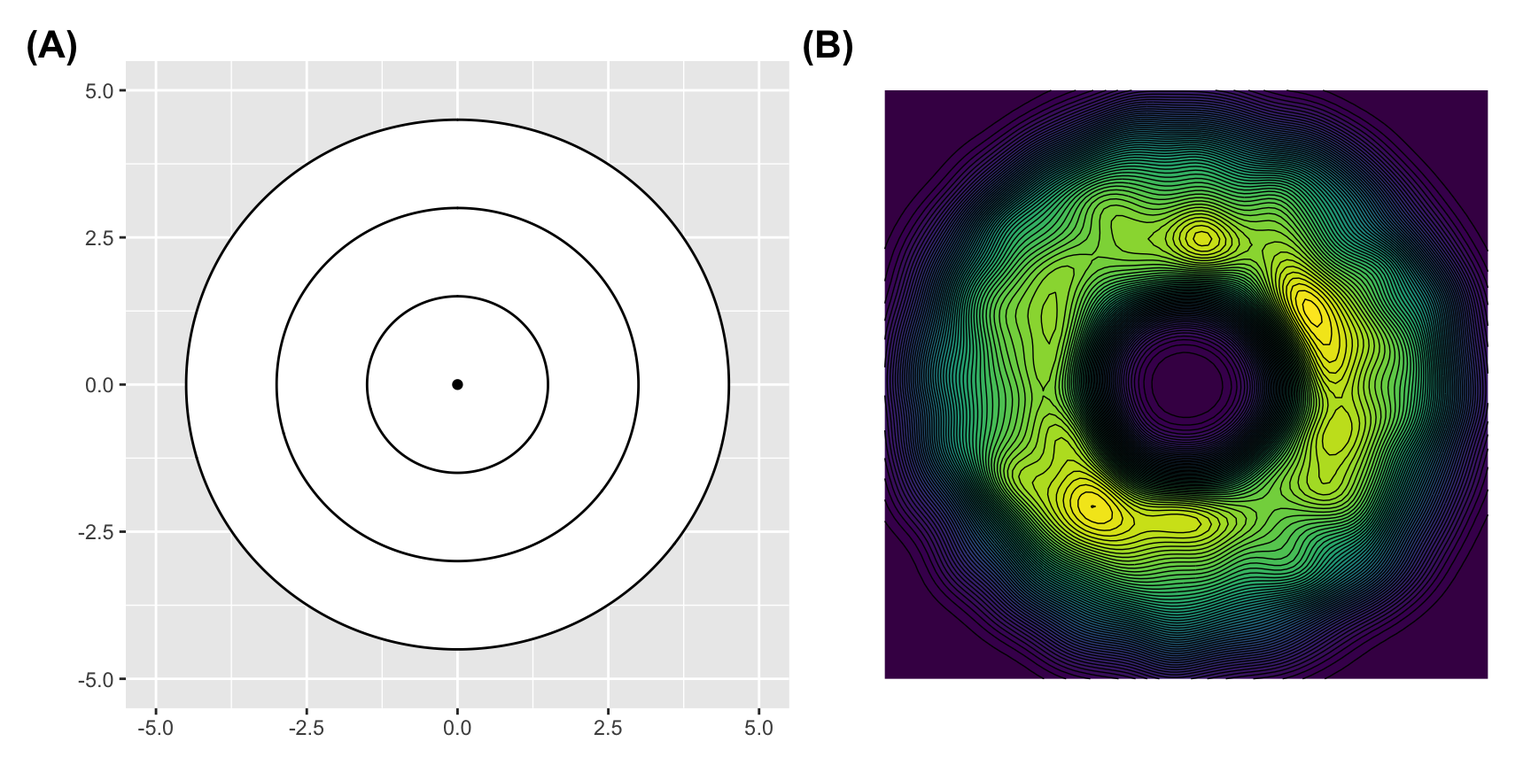
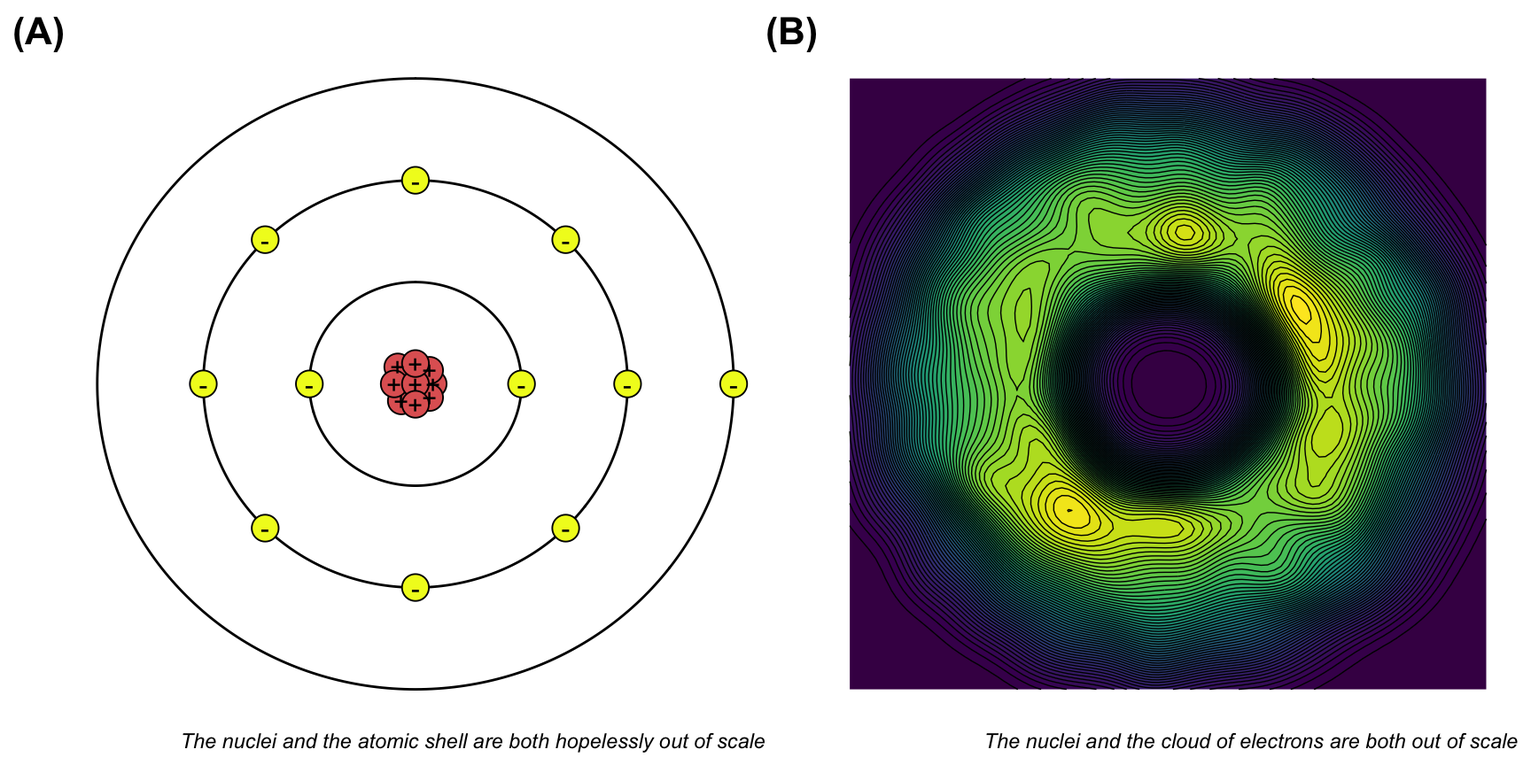
added

diff --git a/docs/chapter-03-what-is-a-model.html b/docs/chapter-03-what-is-a-model.html
@@ -445,7 +445,7 @@ window.Quarto = {
 </header>
 
 
-<p><em>Last modified on 14. January 2026 at 19:38:38</em></p>
+<p><em>Last modified on 14. January 2026 at 20:33:41</em></p>
 <blockquote class="blockquote">
 <p><em>“Space: the final frontier. These are the voyages of the starship Enterprise. Its continuing mission: to explore strange new worlds; to seek out new life and new civilizations; to boldly go where no one has gone before!” — Star Trek: The Next Generation, intro</em></p>
 </blockquote>
@@ -1304,118 +1304,132 @@ Figure&nbsp;3.7: Dramatis personae in this chapter and their biographical detail
 <span id="cb1-154"><a href="#cb1-154" aria-hidden="true" tabindex="-1"></a><span class="co">#| fig-cap: "foo **(A)** foo **(B)** foo"</span></span>
 <span id="cb1-155"><a href="#cb1-155" aria-hidden="true" tabindex="-1"></a></span>
 <span id="cb1-156"><a href="#cb1-156" aria-hidden="true" tabindex="-1"></a>p_atom_bohr <span class="ot">&lt;-</span> <span class="fu">ggplot</span>() <span class="sc">+</span></span>
-<span id="cb1-157"><a href="#cb1-157" aria-hidden="true" tabindex="-1"></a>  <span class="fu">coord_cartesian</span>(<span class="at">xlim =</span> <span class="fu">c</span>(<span class="sc">-</span><span class="dv">5</span>, <span class="dv">5</span>), <span class="at">ylim =</span> <span class="fu">c</span>(<span class="sc">-</span><span class="dv">5</span>, <span class="dv">5</span>)) <span class="sc">+</span></span>
-<span id="cb1-158"><a href="#cb1-158" aria-hidden="true" tabindex="-1"></a>  <span class="fu">geom_circle</span>(<span class="fu">aes</span>(<span class="at">x0 =</span> <span class="dv">0</span>, <span class="at">y0 =</span> <span class="dv">0</span>, <span class="at">r =</span> <span class="fu">c</span>(<span class="fl">4.5</span>, <span class="dv">3</span>, <span class="fl">1.5</span>)), <span class="at">fill =</span> <span class="st">"white"</span>) <span class="sc">+</span></span>
-<span id="cb1-159"><a href="#cb1-159" aria-hidden="true" tabindex="-1"></a>  <span class="fu">annotate</span>(<span class="st">"point"</span>, <span class="at">x =</span> <span class="dv">0</span>, <span class="at">y =</span> <span class="dv">0</span>) </span>
-<span id="cb1-160"><a href="#cb1-160" aria-hidden="true" tabindex="-1"></a></span>
-<span id="cb1-161"><a href="#cb1-161" aria-hidden="true" tabindex="-1"></a>N <span class="ot">&lt;-</span> <span class="dv">10000</span></span>
-<span id="cb1-162"><a href="#cb1-162" aria-hidden="true" tabindex="-1"></a>hole <span class="ot">&lt;-</span> <span class="fl">0.25</span></span>
-<span id="cb1-163"><a href="#cb1-163" aria-hidden="true" tabindex="-1"></a>atom_tbl <span class="ot">&lt;-</span> <span class="fu">tibble</span>(<span class="at">r =</span> hole <span class="sc">+</span> (<span class="fl">1.0</span><span class="sc">-</span>hole)<span class="sc">*</span><span class="fu">rbeta</span>(N, <span class="fl">2.0</span>, <span class="fl">2.0</span>),</span>
-<span id="cb1-164"><a href="#cb1-164" aria-hidden="true" tabindex="-1"></a>                   <span class="at">theta =</span> <span class="fl">2.0</span><span class="sc">*</span>pi<span class="sc">*</span><span class="fu">runif</span>(N),</span>
-<span id="cb1-165"><a href="#cb1-165" aria-hidden="true" tabindex="-1"></a>                   <span class="at">a =</span> r <span class="sc">*</span> <span class="fu">cos</span>(theta),</span>
-<span id="cb1-166"><a href="#cb1-166" aria-hidden="true" tabindex="-1"></a>                   <span class="at">b =</span> r <span class="sc">*</span> <span class="fu">sin</span>(theta))</span>
-<span id="cb1-167"><a href="#cb1-167" aria-hidden="true" tabindex="-1"></a></span>
-<span id="cb1-168"><a href="#cb1-168" aria-hidden="true" tabindex="-1"></a>p_atom_dens <span class="ot">&lt;-</span> <span class="fu">ggplot</span>(atom_tbl, <span class="fu">aes</span>(a, b)) <span class="sc">+</span></span>
-<span id="cb1-169"><a href="#cb1-169" aria-hidden="true" tabindex="-1"></a>  <span class="fu">theme_void</span>() <span class="sc">+</span></span>
-<span id="cb1-170"><a href="#cb1-170" aria-hidden="true" tabindex="-1"></a>  <span class="fu">geom_density_2d_filled</span>(<span class="at">show.legend =</span> <span class="cn">FALSE</span>, <span class="at">binwidth =</span> <span class="fl">0.01</span>) <span class="sc">+</span></span>
-<span id="cb1-171"><a href="#cb1-171" aria-hidden="true" tabindex="-1"></a>  <span class="fu">geom_density_2d</span>(<span class="at">linewidth =</span> <span class="fl">0.25</span>, <span class="at">colour =</span> <span class="st">"black"</span>, <span class="at">show.legend =</span> <span class="cn">FALSE</span>, </span>
-<span id="cb1-172"><a href="#cb1-172" aria-hidden="true" tabindex="-1"></a>                  <span class="at">binwidth =</span> <span class="fl">0.01</span>)</span>
-<span id="cb1-173"><a href="#cb1-173" aria-hidden="true" tabindex="-1"></a></span>
-<span id="cb1-174"><a href="#cb1-174" aria-hidden="true" tabindex="-1"></a>p_atom_bohr <span class="sc">+</span> p_atom_dens <span class="sc">+</span></span>
-<span id="cb1-175"><a href="#cb1-175" aria-hidden="true" tabindex="-1"></a>  <span class="fu">plot_layout</span>(<span class="at">ncol =</span> <span class="dv">2</span>) <span class="sc">+</span></span>
-<span id="cb1-176"><a href="#cb1-176" aria-hidden="true" tabindex="-1"></a>  <span class="fu">plot_annotation</span>(<span class="at">tag_levels =</span> <span class="st">'A'</span>, <span class="at">tag_prefix =</span> <span class="st">'('</span>, <span class="at">tag_suffix =</span> <span class="st">')'</span>) <span class="sc">&amp;</span></span>
-<span id="cb1-177"><a href="#cb1-177" aria-hidden="true" tabindex="-1"></a>  <span class="fu">theme</span>(<span class="at">plot.tag =</span> <span class="fu">element_text</span>(<span class="at">size =</span> <span class="dv">16</span>, <span class="at">face =</span> <span class="st">"bold"</span>))</span>
-<span id="cb1-178"><a href="#cb1-178" aria-hidden="true" tabindex="-1"></a><span class="in">```</span></span>
+<span id="cb1-157"><a href="#cb1-157" aria-hidden="true" tabindex="-1"></a>  <span class="fu">theme_void</span>() <span class="sc">+</span></span>
+<span id="cb1-158"><a href="#cb1-158" aria-hidden="true" tabindex="-1"></a>  <span class="fu">coord_cartesian</span>(<span class="at">xlim =</span> <span class="fu">c</span>(<span class="sc">-</span><span class="fl">4.5</span>, <span class="fl">4.5</span>), <span class="at">ylim =</span> <span class="fu">c</span>(<span class="sc">-</span><span class="fl">4.5</span>, <span class="fl">4.5</span>)) <span class="sc">+</span></span>
+<span id="cb1-159"><a href="#cb1-159" aria-hidden="true" tabindex="-1"></a>  <span class="fu">geom_circle</span>(<span class="fu">aes</span>(<span class="at">x0 =</span> <span class="dv">0</span>, <span class="at">y0 =</span> <span class="dv">0</span>, <span class="at">r =</span> <span class="fu">c</span>(<span class="fl">4.5</span>, <span class="dv">3</span>, <span class="fl">1.5</span>))) <span class="sc">+</span></span>
+<span id="cb1-160"><a href="#cb1-160" aria-hidden="true" tabindex="-1"></a>  <span class="fu">annotate</span>(<span class="st">"point"</span>, <span class="at">x =</span> <span class="fu">c</span>(<span class="fl">0.25</span>, <span class="sc">-</span><span class="fl">0.25</span>, <span class="sc">-</span><span class="fl">0.2</span>, <span class="fl">0.2</span>, <span class="fl">0.2</span>, <span class="sc">-</span><span class="fl">0.3</span>, <span class="dv">0</span>, <span class="dv">0</span>, <span class="dv">0</span>), </span>
+<span id="cb1-161"><a href="#cb1-161" aria-hidden="true" tabindex="-1"></a>           <span class="at">y =</span> <span class="fu">c</span>(<span class="dv">0</span>, <span class="fl">0.25</span>, <span class="sc">-</span><span class="fl">0.25</span>, <span class="fl">0.2</span>, <span class="sc">-</span><span class="fl">0.2</span>, <span class="dv">0</span>,  <span class="dv">0</span>, <span class="sc">-</span><span class="fl">0.3</span>, <span class="fl">0.3</span>), </span>
+<span id="cb1-162"><a href="#cb1-162" aria-hidden="true" tabindex="-1"></a>           <span class="at">size =</span> <span class="dv">5</span>, <span class="at">shape =</span> <span class="dv">21</span>, <span class="at">fill =</span> <span class="st">"#E16462FF"</span>) <span class="sc">+</span></span>
+<span id="cb1-163"><a href="#cb1-163" aria-hidden="true" tabindex="-1"></a>  <span class="fu">annotate</span>(<span class="st">"text"</span>, <span class="at">x =</span> <span class="fu">c</span>(<span class="fl">0.25</span>, <span class="sc">-</span><span class="fl">0.25</span>, <span class="sc">-</span><span class="fl">0.2</span>, <span class="fl">0.2</span>, <span class="fl">0.2</span>, <span class="sc">-</span><span class="fl">0.3</span>, <span class="dv">0</span>, <span class="dv">0</span>, <span class="dv">0</span>), </span>
+<span id="cb1-164"><a href="#cb1-164" aria-hidden="true" tabindex="-1"></a>           <span class="at">y =</span> <span class="fu">c</span>(<span class="dv">0</span>, <span class="fl">0.25</span>, <span class="sc">-</span><span class="fl">0.25</span>, <span class="fl">0.2</span>, <span class="sc">-</span><span class="fl">0.2</span>, <span class="dv">0</span>,  <span class="dv">0</span>, <span class="sc">-</span><span class="fl">0.3</span>, <span class="fl">0.3</span>),<span class="at">label =</span> <span class="st">"+"</span>) <span class="sc">+</span></span>
+<span id="cb1-165"><a href="#cb1-165" aria-hidden="true" tabindex="-1"></a>  <span class="fu">annotate</span>(<span class="st">"point"</span>, <span class="at">x =</span> <span class="fu">c</span>(<span class="sc">-</span><span class="fl">1.5</span>, <span class="fl">1.5</span>, <span class="sc">-</span><span class="dv">3</span>, <span class="dv">3</span>, <span class="dv">0</span>, <span class="dv">0</span>, <span class="sc">-</span><span class="fl">2.125</span>, <span class="sc">-</span><span class="fl">2.125</span>, <span class="fl">2.125</span>, <span class="fl">2.125</span>, <span class="fl">4.5</span>), </span>
+<span id="cb1-166"><a href="#cb1-166" aria-hidden="true" tabindex="-1"></a>           <span class="at">y =</span> <span class="fu">c</span>(<span class="dv">0</span>, <span class="dv">0</span>, <span class="dv">0</span>, <span class="dv">0</span>, <span class="sc">-</span><span class="dv">3</span>, <span class="dv">3</span>, <span class="sc">-</span><span class="fl">2.125</span>, <span class="fl">2.125</span>, <span class="sc">-</span><span class="fl">2.125</span>, <span class="fl">2.125</span>, <span class="dv">0</span>), <span class="at">size =</span> <span class="dv">5</span>, <span class="at">shape =</span> <span class="dv">21</span>,</span>
+<span id="cb1-167"><a href="#cb1-167" aria-hidden="true" tabindex="-1"></a>           <span class="at">fill =</span> <span class="st">"#F0F921FF"</span>) <span class="sc">+</span></span>
+<span id="cb1-168"><a href="#cb1-168" aria-hidden="true" tabindex="-1"></a>  <span class="fu">annotate</span>(<span class="st">"text"</span>, <span class="at">x =</span> <span class="fu">c</span>(<span class="sc">-</span><span class="fl">1.5</span>, <span class="fl">1.5</span>, <span class="sc">-</span><span class="dv">3</span>, <span class="dv">3</span>, <span class="dv">0</span>, <span class="dv">0</span>, <span class="sc">-</span><span class="fl">2.125</span>, <span class="sc">-</span><span class="fl">2.125</span>, <span class="fl">2.125</span>, <span class="fl">2.125</span>, <span class="fl">4.5</span>), </span>
+<span id="cb1-169"><a href="#cb1-169" aria-hidden="true" tabindex="-1"></a>           <span class="at">y =</span> <span class="fu">c</span>(<span class="dv">0</span>, <span class="dv">0</span>, <span class="dv">0</span>, <span class="dv">0</span>, <span class="sc">-</span><span class="dv">3</span>, <span class="dv">3</span>, <span class="sc">-</span><span class="fl">2.125</span>, <span class="fl">2.125</span>, <span class="sc">-</span><span class="fl">2.125</span>, <span class="fl">2.125</span>, <span class="dv">0</span>), <span class="at">label =</span> <span class="st">"-"</span>) <span class="sc">+</span></span>
+<span id="cb1-170"><a href="#cb1-170" aria-hidden="true" tabindex="-1"></a>  <span class="fu">labs</span>(<span class="at">caption =</span> <span class="st">"The nuclei and the atomic shell are both hopelessly out of scale"</span>) <span class="sc">+</span></span>
+<span id="cb1-171"><a href="#cb1-171" aria-hidden="true" tabindex="-1"></a>  <span class="fu">theme</span>(<span class="at">plot.caption =</span> <span class="fu">element_text</span>(<span class="at">face =</span> <span class="st">"italic"</span>))</span>
+<span id="cb1-172"><a href="#cb1-172" aria-hidden="true" tabindex="-1"></a></span>
+<span id="cb1-173"><a href="#cb1-173" aria-hidden="true" tabindex="-1"></a>N <span class="ot">&lt;-</span> <span class="dv">10000</span></span>
+<span id="cb1-174"><a href="#cb1-174" aria-hidden="true" tabindex="-1"></a>hole <span class="ot">&lt;-</span> <span class="fl">0.25</span></span>
+<span id="cb1-175"><a href="#cb1-175" aria-hidden="true" tabindex="-1"></a>atom_tbl <span class="ot">&lt;-</span> <span class="fu">tibble</span>(<span class="at">r =</span> hole <span class="sc">+</span> (<span class="fl">1.0</span><span class="sc">-</span>hole)<span class="sc">*</span><span class="fu">rbeta</span>(N, <span class="fl">2.0</span>, <span class="fl">2.0</span>),</span>
+<span id="cb1-176"><a href="#cb1-176" aria-hidden="true" tabindex="-1"></a>                   <span class="at">theta =</span> <span class="fl">2.0</span><span class="sc">*</span>pi<span class="sc">*</span><span class="fu">runif</span>(N),</span>
+<span id="cb1-177"><a href="#cb1-177" aria-hidden="true" tabindex="-1"></a>                   <span class="at">a =</span> r <span class="sc">*</span> <span class="fu">cos</span>(theta),</span>
+<span id="cb1-178"><a href="#cb1-178" aria-hidden="true" tabindex="-1"></a>                   <span class="at">b =</span> r <span class="sc">*</span> <span class="fu">sin</span>(theta))</span>
 <span id="cb1-179"><a href="#cb1-179" aria-hidden="true" tabindex="-1"></a></span>
-<span id="cb1-180"><a href="#cb1-180" aria-hidden="true" tabindex="-1"></a></span>
-<span id="cb1-181"><a href="#cb1-181" aria-hidden="true" tabindex="-1"></a></span>
-<span id="cb1-182"><a href="#cb1-182" aria-hidden="true" tabindex="-1"></a><span class="fu">## The difference between theory and model</span></span>
-<span id="cb1-183"><a href="#cb1-183" aria-hidden="true" tabindex="-1"></a></span>
-<span id="cb1-184"><a href="#cb1-184" aria-hidden="true" tabindex="-1"></a>Science is a process of guessing in the search for a good explanation.</span>
-<span id="cb1-185"><a href="#cb1-185" aria-hidden="true" tabindex="-1"></a></span>
-<span id="cb1-186"><a href="#cb1-186" aria-hidden="true" tabindex="-1"></a>If you can mathematically explain something, you can also mathematically predict something.</span>
+<span id="cb1-180"><a href="#cb1-180" aria-hidden="true" tabindex="-1"></a>p_atom_dens <span class="ot">&lt;-</span> <span class="fu">ggplot</span>(atom_tbl, <span class="fu">aes</span>(a, b)) <span class="sc">+</span></span>
+<span id="cb1-181"><a href="#cb1-181" aria-hidden="true" tabindex="-1"></a>  <span class="fu">theme_void</span>() <span class="sc">+</span></span>
+<span id="cb1-182"><a href="#cb1-182" aria-hidden="true" tabindex="-1"></a>  <span class="fu">geom_density_2d_filled</span>(<span class="at">show.legend =</span> <span class="cn">FALSE</span>, <span class="at">binwidth =</span> <span class="fl">0.01</span>) <span class="sc">+</span></span>
+<span id="cb1-183"><a href="#cb1-183" aria-hidden="true" tabindex="-1"></a>  <span class="fu">geom_density_2d</span>(<span class="at">linewidth =</span> <span class="fl">0.25</span>, <span class="at">colour =</span> <span class="st">"black"</span>, <span class="at">show.legend =</span> <span class="cn">FALSE</span>, </span>
+<span id="cb1-184"><a href="#cb1-184" aria-hidden="true" tabindex="-1"></a>                  <span class="at">binwidth =</span> <span class="fl">0.01</span>) <span class="sc">+</span></span>
+<span id="cb1-185"><a href="#cb1-185" aria-hidden="true" tabindex="-1"></a>  <span class="fu">labs</span>(<span class="at">caption =</span> <span class="st">"The nuclei and the cloud of electrons are both out of scale"</span>) <span class="sc">+</span></span>
+<span id="cb1-186"><a href="#cb1-186" aria-hidden="true" tabindex="-1"></a>  <span class="fu">theme</span>(<span class="at">plot.caption =</span> <span class="fu">element_text</span>(<span class="at">face =</span> <span class="st">"italic"</span>))</span>
 <span id="cb1-187"><a href="#cb1-187" aria-hidden="true" tabindex="-1"></a></span>
-<span id="cb1-188"><a href="#cb1-188" aria-hidden="true" tabindex="-1"></a>mathematically using a algorithm</span>
-<span id="cb1-189"><a href="#cb1-189" aria-hidden="true" tabindex="-1"></a></span>
-<span id="cb1-190"><a href="#cb1-190" aria-hidden="true" tabindex="-1"></a>A algorithm consists of mathematical formulas</span>
-<span id="cb1-191"><a href="#cb1-191" aria-hidden="true" tabindex="-1"></a></span>
-<span id="cb1-192"><a href="#cb1-192" aria-hidden="true" tabindex="-1"></a>A theory consists of models </span>
+<span id="cb1-188"><a href="#cb1-188" aria-hidden="true" tabindex="-1"></a>p_atom_bohr <span class="sc">+</span> p_atom_dens <span class="sc">+</span></span>
+<span id="cb1-189"><a href="#cb1-189" aria-hidden="true" tabindex="-1"></a>  <span class="fu">plot_layout</span>(<span class="at">ncol =</span> <span class="dv">2</span>) <span class="sc">+</span></span>
+<span id="cb1-190"><a href="#cb1-190" aria-hidden="true" tabindex="-1"></a>  <span class="fu">plot_annotation</span>(<span class="at">tag_levels =</span> <span class="st">'A'</span>, <span class="at">tag_prefix =</span> <span class="st">'('</span>, <span class="at">tag_suffix =</span> <span class="st">')'</span>) <span class="sc">&amp;</span></span>
+<span id="cb1-191"><a href="#cb1-191" aria-hidden="true" tabindex="-1"></a>  <span class="fu">theme</span>(<span class="at">plot.tag =</span> <span class="fu">element_text</span>(<span class="at">size =</span> <span class="dv">16</span>, <span class="at">face =</span> <span class="st">"bold"</span>)) </span>
+<span id="cb1-192"><a href="#cb1-192" aria-hidden="true" tabindex="-1"></a><span class="in">```</span></span>
 <span id="cb1-193"><a href="#cb1-193" aria-hidden="true" tabindex="-1"></a></span>
-<span id="cb1-194"><a href="#cb1-194" aria-hidden="true" tabindex="-1"></a>A simple model can look like a mathematical formula</span>
+<span id="cb1-194"><a href="#cb1-194" aria-hidden="true" tabindex="-1"></a></span>
 <span id="cb1-195"><a href="#cb1-195" aria-hidden="true" tabindex="-1"></a></span>
-<span id="cb1-196"><a href="#cb1-196" aria-hidden="true" tabindex="-1"></a>Theory models and formulas</span>
+<span id="cb1-196"><a href="#cb1-196" aria-hidden="true" tabindex="-1"></a><span class="fu">## The difference between theory and model</span></span>
 <span id="cb1-197"><a href="#cb1-197" aria-hidden="true" tabindex="-1"></a></span>
-<span id="cb1-198"><a href="#cb1-198" aria-hidden="true" tabindex="-1"></a>Math and statistics, probabilistic worldview with quantum mechanics</span>
+<span id="cb1-198"><a href="#cb1-198" aria-hidden="true" tabindex="-1"></a>Science is a process of guessing in the search for a good explanation.</span>
 <span id="cb1-199"><a href="#cb1-199" aria-hidden="true" tabindex="-1"></a></span>
-<span id="cb1-200"><a href="#cb1-200" aria-hidden="true" tabindex="-1"></a>Calculate versus estimate</span>
+<span id="cb1-200"><a href="#cb1-200" aria-hidden="true" tabindex="-1"></a>If you can mathematically explain something, you can also mathematically predict something.</span>
 <span id="cb1-201"><a href="#cb1-201" aria-hidden="true" tabindex="-1"></a></span>
-<span id="cb1-202"><a href="#cb1-202" aria-hidden="true" tabindex="-1"></a>What is a theory @fried2020theories</span>
+<span id="cb1-202"><a href="#cb1-202" aria-hidden="true" tabindex="-1"></a>mathematically using a algorithm</span>
 <span id="cb1-203"><a href="#cb1-203" aria-hidden="true" tabindex="-1"></a></span>
-<span id="cb1-204"><a href="#cb1-204" aria-hidden="true" tabindex="-1"></a></span>
+<span id="cb1-204"><a href="#cb1-204" aria-hidden="true" tabindex="-1"></a>A algorithm consists of mathematical formulas</span>
 <span id="cb1-205"><a href="#cb1-205" aria-hidden="true" tabindex="-1"></a></span>
-<span id="cb1-206"><a href="#cb1-206" aria-hidden="true" tabindex="-1"></a></span>
-<span id="cb1-207"><a href="#cb1-207" aria-hidden="true" tabindex="-1"></a><span class="at">&gt; *"Scientific knowledge, especially as stacked in textbooks, has an aura of objectivity - it is secure, uninfluenced by what we might hope or fear, and a solid assertion of what is true. Or, at least, that is what we are supposed to think. Knowledge, once formed, tends to become disembodied from its human origins. That is, while knowledge is preserved in the form of books, formulas, proofs, theorems, and such, we must not forget that before all this the formation of knowledge was the result of human thought, effort, and desire. Knowledge is a product of human hopes and fears; our emotions are crucial to its development, and its meaning cannot be truly understood if seen as some bloodless and emotionless enterprise." --- Joshua Schimel in Writing Science @schimel2012writing*</span></span>
-<span id="cb1-208"><a href="#cb1-208" aria-hidden="true" tabindex="-1"></a></span>
+<span id="cb1-206"><a href="#cb1-206" aria-hidden="true" tabindex="-1"></a>A theory consists of models </span>
+<span id="cb1-207"><a href="#cb1-207" aria-hidden="true" tabindex="-1"></a></span>
+<span id="cb1-208"><a href="#cb1-208" aria-hidden="true" tabindex="-1"></a>A simple model can look like a mathematical formula</span>
 <span id="cb1-209"><a href="#cb1-209" aria-hidden="true" tabindex="-1"></a></span>
-<span id="cb1-210"><a href="#cb1-210" aria-hidden="true" tabindex="-1"></a>There are different types of models. In this book we will mainly talk about statistical models, which are a very specific type of mathematical models. There are other models. There are individual models, like models of control. The way in which we understand and experience reality. There are also scientific theories that can be read as umbrellas above a set of models. Theories and models can be viewed as forming a hierarchical structure. Theories are more general, whereas models are very specific. In everyday language, the terms 'theory' and 'model' are interchangeable.</span>
+<span id="cb1-210"><a href="#cb1-210" aria-hidden="true" tabindex="-1"></a>Theory models and formulas</span>
 <span id="cb1-211"><a href="#cb1-211" aria-hidden="true" tabindex="-1"></a></span>
-<span id="cb1-212"><a href="#cb1-212" aria-hidden="true" tabindex="-1"></a>As scientific workers, we work with models on a daily basis. Therefore, this book is about models. Although we may have a theory in the background, our daily life only sporadically touches such high levels.</span>
+<span id="cb1-212"><a href="#cb1-212" aria-hidden="true" tabindex="-1"></a>Math and statistics, probabilistic worldview with quantum mechanics</span>
 <span id="cb1-213"><a href="#cb1-213" aria-hidden="true" tabindex="-1"></a></span>
-<span id="cb1-214"><a href="#cb1-214" aria-hidden="true" tabindex="-1"></a>Reality can be seen through science by carrying out tiny experiments. These experiments are tiny in the sense that reality is overwhelmingly big, so every experiment is tiny in comparison.</span>
+<span id="cb1-214"><a href="#cb1-214" aria-hidden="true" tabindex="-1"></a>Calculate versus estimate</span>
 <span id="cb1-215"><a href="#cb1-215" aria-hidden="true" tabindex="-1"></a></span>
-<span id="cb1-216"><a href="#cb1-216" aria-hidden="true" tabindex="-1"></a>A model is a snapshot out of a bigger theory. Or to have another picture. A theory is a collage of different models. In each theory different models for a given problem exists. Hence, we can use different models in the Newotonian theory, like the formulas for the motion or gravity. Even if the formual ist wrong and a gravity force does not exists in reality.</span>
+<span id="cb1-216"><a href="#cb1-216" aria-hidden="true" tabindex="-1"></a>What is a theory @fried2020theories</span>
 <span id="cb1-217"><a href="#cb1-217" aria-hidden="true" tabindex="-1"></a></span>
 <span id="cb1-218"><a href="#cb1-218" aria-hidden="true" tabindex="-1"></a></span>
-<span id="cb1-219"><a href="#cb1-219" aria-hidden="true" tabindex="-1"></a><span class="fu">## Determinism in a probabilistic reality</span></span>
+<span id="cb1-219"><a href="#cb1-219" aria-hidden="true" tabindex="-1"></a></span>
 <span id="cb1-220"><a href="#cb1-220" aria-hidden="true" tabindex="-1"></a></span>
-<span id="cb1-221"><a href="#cb1-221" aria-hidden="true" tabindex="-1"></a><span class="at">&gt; *"Nobody exists on purpose, nobody belongs anywhere, everybody's gonna die. Come watch TV." --- Rick and Morty in Rixty Minutes*</span></span>
+<span id="cb1-221"><a href="#cb1-221" aria-hidden="true" tabindex="-1"></a><span class="at">&gt; *"Scientific knowledge, especially as stacked in textbooks, has an aura of objectivity - it is secure, uninfluenced by what we might hope or fear, and a solid assertion of what is true. Or, at least, that is what we are supposed to think. Knowledge, once formed, tends to become disembodied from its human origins. That is, while knowledge is preserved in the form of books, formulas, proofs, theorems, and such, we must not forget that before all this the formation of knowledge was the result of human thought, effort, and desire. Knowledge is a product of human hopes and fears; our emotions are crucial to its development, and its meaning cannot be truly understood if seen as some bloodless and emotionless enterprise." --- Joshua Schimel in Writing Science @schimel2012writing*</span></span>
 <span id="cb1-222"><a href="#cb1-222" aria-hidden="true" tabindex="-1"></a></span>
-<span id="cb1-223"><a href="#cb1-223" aria-hidden="true" tabindex="-1"></a>Atoms are the basic foundation of reality. Everything what is possible should be arise of the possibilities of atoms @feynman2011six.</span>
-<span id="cb1-224"><a href="#cb1-224" aria-hidden="true" tabindex="-1"></a></span>
-<span id="cb1-225"><a href="#cb1-225" aria-hidden="true" tabindex="-1"></a>Einstein don't wanted to believe, that the old man is throwing dice in the alley</span>
-<span id="cb1-226"><a href="#cb1-226" aria-hidden="true" tabindex="-1"></a>until Officer Leroy comes up.</span>
+<span id="cb1-223"><a href="#cb1-223" aria-hidden="true" tabindex="-1"></a></span>
+<span id="cb1-224"><a href="#cb1-224" aria-hidden="true" tabindex="-1"></a>There are different types of models. In this book we will mainly talk about statistical models, which are a very specific type of mathematical models. There are other models. There are individual models, like models of control. The way in which we understand and experience reality. There are also scientific theories that can be read as umbrellas above a set of models. Theories and models can be viewed as forming a hierarchical structure. Theories are more general, whereas models are very specific. In everyday language, the terms 'theory' and 'model' are interchangeable.</span>
+<span id="cb1-225"><a href="#cb1-225" aria-hidden="true" tabindex="-1"></a></span>
+<span id="cb1-226"><a href="#cb1-226" aria-hidden="true" tabindex="-1"></a>As scientific workers, we work with models on a daily basis. Therefore, this book is about models. Although we may have a theory in the background, our daily life only sporadically touches such high levels.</span>
 <span id="cb1-227"><a href="#cb1-227" aria-hidden="true" tabindex="-1"></a></span>
-<span id="cb1-228"><a href="#cb1-228" aria-hidden="true" tabindex="-1"></a><span class="at">&gt; *"Twistin', shake it, shake it, shake it, shake it, baby; Hey, we gonna Loop de Loop Shake it out, baby; Hey, we gonna Loop de La" --- [The Blues Brothers (1980) -- Shake a Tail Feather](https://www.youtube.com/watch?v=qdbrIrFxas0)*</span></span>
+<span id="cb1-228"><a href="#cb1-228" aria-hidden="true" tabindex="-1"></a>Reality can be seen through science by carrying out tiny experiments. These experiments are tiny in the sense that reality is overwhelmingly big, so every experiment is tiny in comparison.</span>
 <span id="cb1-229"><a href="#cb1-229" aria-hidden="true" tabindex="-1"></a></span>
-<span id="cb1-232"><a href="#cb1-232" aria-hidden="true" tabindex="-1"></a><span class="in">```{r}</span></span>
-<span id="cb1-233"><a href="#cb1-233" aria-hidden="true" tabindex="-1"></a><span class="co">#| echo: false</span></span>
-<span id="cb1-234"><a href="#cb1-234" aria-hidden="true" tabindex="-1"></a><span class="co">#| message: false</span></span>
-<span id="cb1-235"><a href="#cb1-235" aria-hidden="true" tabindex="-1"></a><span class="co">#| warning: false</span></span>
-<span id="cb1-236"><a href="#cb1-236" aria-hidden="true" tabindex="-1"></a><span class="co">#| label: fig-chap-01-persons-statistics</span></span>
-<span id="cb1-237"><a href="#cb1-237" aria-hidden="true" tabindex="-1"></a><span class="co">#| fig-align: center</span></span>
-<span id="cb1-238"><a href="#cb1-238" aria-hidden="true" tabindex="-1"></a><span class="co">#| fig-height: 4</span></span>
-<span id="cb1-239"><a href="#cb1-239" aria-hidden="true" tabindex="-1"></a><span class="co">#| fig-width: 8</span></span>
-<span id="cb1-240"><a href="#cb1-240" aria-hidden="true" tabindex="-1"></a><span class="co">#| fig-cap: "Dramatis personae in this chapter and their biographical details, as well as important scientific discoveries or hypotheses. We consider scientists who have contributed to research in the fields of physics, quantum mechanics and statistics. The dates refer roughly to the year of publication or when the discovery became known to the public."</span></span>
+<span id="cb1-230"><a href="#cb1-230" aria-hidden="true" tabindex="-1"></a>A model is a snapshot out of a bigger theory. Or to have another picture. A theory is a collage of different models. In each theory different models for a given problem exists. Hence, we can use different models in the Newotonian theory, like the formulas for the motion or gravity. Even if the formual ist wrong and a gravity force does not exists in reality.</span>
+<span id="cb1-231"><a href="#cb1-231" aria-hidden="true" tabindex="-1"></a></span>
+<span id="cb1-232"><a href="#cb1-232" aria-hidden="true" tabindex="-1"></a></span>
+<span id="cb1-233"><a href="#cb1-233" aria-hidden="true" tabindex="-1"></a><span class="fu">## Determinism in a probabilistic reality</span></span>
+<span id="cb1-234"><a href="#cb1-234" aria-hidden="true" tabindex="-1"></a></span>
+<span id="cb1-235"><a href="#cb1-235" aria-hidden="true" tabindex="-1"></a><span class="at">&gt; *"Nobody exists on purpose, nobody belongs anywhere, everybody's gonna die. Come watch TV." --- Rick and Morty in Rixty Minutes*</span></span>
+<span id="cb1-236"><a href="#cb1-236" aria-hidden="true" tabindex="-1"></a></span>
+<span id="cb1-237"><a href="#cb1-237" aria-hidden="true" tabindex="-1"></a>Atoms are the basic foundation of reality. Everything what is possible should be arise of the possibilities of atoms @feynman2011six.</span>
+<span id="cb1-238"><a href="#cb1-238" aria-hidden="true" tabindex="-1"></a></span>
+<span id="cb1-239"><a href="#cb1-239" aria-hidden="true" tabindex="-1"></a>Einstein don't wanted to believe, that the old man is throwing dice in the alley</span>
+<span id="cb1-240"><a href="#cb1-240" aria-hidden="true" tabindex="-1"></a>until Officer Leroy comes up.</span>
 <span id="cb1-241"><a href="#cb1-241" aria-hidden="true" tabindex="-1"></a></span>
-<span id="cb1-242"><a href="#cb1-242" aria-hidden="true" tabindex="-1"></a>p_persons_statistics</span>
-<span id="cb1-243"><a href="#cb1-243" aria-hidden="true" tabindex="-1"></a><span class="in">```</span></span>
-<span id="cb1-244"><a href="#cb1-244" aria-hidden="true" tabindex="-1"></a></span>
-<span id="cb1-245"><a href="#cb1-245" aria-hidden="true" tabindex="-1"></a><span class="fu">## Explanation vs. decision</span></span>
-<span id="cb1-246"><a href="#cb1-246" aria-hidden="true" tabindex="-1"></a></span>
-<span id="cb1-247"><a href="#cb1-247" aria-hidden="true" tabindex="-1"></a>Explanation and prediction are interchangeable. First, you need a model to explain something; then, you can use the model to make predictions.</span>
-<span id="cb1-248"><a href="#cb1-248" aria-hidden="true" tabindex="-1"></a></span>
-<span id="cb1-249"><a href="#cb1-249" aria-hidden="true" tabindex="-1"></a>Decision-making is slightly different. This could also be called a conclusion or, more technically, 'inference'.</span>
-<span id="cb1-250"><a href="#cb1-250" aria-hidden="true" tabindex="-1"></a></span>
-<span id="cb1-251"><a href="#cb1-251" aria-hidden="true" tabindex="-1"></a><span class="fu">## Glossary</span></span>
-<span id="cb1-252"><a href="#cb1-252" aria-hidden="true" tabindex="-1"></a></span>
-<span id="cb1-253"><a href="#cb1-253" aria-hidden="true" tabindex="-1"></a>Theory</span>
-<span id="cb1-254"><a href="#cb1-254" aria-hidden="true" tabindex="-1"></a></span>
-<span id="cb1-255"><a href="#cb1-255" aria-hidden="true" tabindex="-1"></a>:   what does it mean.</span>
-<span id="cb1-256"><a href="#cb1-256" aria-hidden="true" tabindex="-1"></a></span>
-<span id="cb1-257"><a href="#cb1-257" aria-hidden="true" tabindex="-1"></a>Model</span>
+<span id="cb1-242"><a href="#cb1-242" aria-hidden="true" tabindex="-1"></a><span class="at">&gt; *"Twistin', shake it, shake it, shake it, shake it, baby; Hey, we gonna Loop de Loop Shake it out, baby; Hey, we gonna Loop de La" --- [The Blues Brothers (1980) -- Shake a Tail Feather](https://www.youtube.com/watch?v=qdbrIrFxas0)*</span></span>
+<span id="cb1-243"><a href="#cb1-243" aria-hidden="true" tabindex="-1"></a></span>
+<span id="cb1-246"><a href="#cb1-246" aria-hidden="true" tabindex="-1"></a><span class="in">```{r}</span></span>
+<span id="cb1-247"><a href="#cb1-247" aria-hidden="true" tabindex="-1"></a><span class="co">#| echo: false</span></span>
+<span id="cb1-248"><a href="#cb1-248" aria-hidden="true" tabindex="-1"></a><span class="co">#| message: false</span></span>
+<span id="cb1-249"><a href="#cb1-249" aria-hidden="true" tabindex="-1"></a><span class="co">#| warning: false</span></span>
+<span id="cb1-250"><a href="#cb1-250" aria-hidden="true" tabindex="-1"></a><span class="co">#| label: fig-chap-01-persons-statistics</span></span>
+<span id="cb1-251"><a href="#cb1-251" aria-hidden="true" tabindex="-1"></a><span class="co">#| fig-align: center</span></span>
+<span id="cb1-252"><a href="#cb1-252" aria-hidden="true" tabindex="-1"></a><span class="co">#| fig-height: 4</span></span>
+<span id="cb1-253"><a href="#cb1-253" aria-hidden="true" tabindex="-1"></a><span class="co">#| fig-width: 8</span></span>
+<span id="cb1-254"><a href="#cb1-254" aria-hidden="true" tabindex="-1"></a><span class="co">#| fig-cap: "Dramatis personae in this chapter and their biographical details, as well as important scientific discoveries or hypotheses. We consider scientists who have contributed to research in the fields of physics, quantum mechanics and statistics. The dates refer roughly to the year of publication or when the discovery became known to the public."</span></span>
+<span id="cb1-255"><a href="#cb1-255" aria-hidden="true" tabindex="-1"></a></span>
+<span id="cb1-256"><a href="#cb1-256" aria-hidden="true" tabindex="-1"></a>p_persons_statistics</span>
+<span id="cb1-257"><a href="#cb1-257" aria-hidden="true" tabindex="-1"></a><span class="in">```</span></span>
 <span id="cb1-258"><a href="#cb1-258" aria-hidden="true" tabindex="-1"></a></span>
-<span id="cb1-259"><a href="#cb1-259" aria-hidden="true" tabindex="-1"></a>:   what does it mean.</span>
+<span id="cb1-259"><a href="#cb1-259" aria-hidden="true" tabindex="-1"></a><span class="fu">## Explanation vs. decision</span></span>
 <span id="cb1-260"><a href="#cb1-260" aria-hidden="true" tabindex="-1"></a></span>
-<span id="cb1-261"><a href="#cb1-261" aria-hidden="true" tabindex="-1"></a></span>
-<span id="cb1-262"><a href="#cb1-262" aria-hidden="true" tabindex="-1"></a><span class="fu">## The meaning of "Models of Reality" in this chapter.</span></span>
-<span id="cb1-263"><a href="#cb1-263" aria-hidden="true" tabindex="-1"></a></span>
-<span id="cb1-264"><a href="#cb1-264" aria-hidden="true" tabindex="-1"></a><span class="ss">-   </span>Models of reality can exist in parallel.</span>
-<span id="cb1-265"><a href="#cb1-265" aria-hidden="true" tabindex="-1"></a><span class="ss">-   </span>Models do not make automatically good predictions.</span>
-<span id="cb1-266"><a href="#cb1-266" aria-hidden="true" tabindex="-1"></a><span class="ss">-   </span>If the assumptions are wrong, the model is wrong.</span>
-<span id="cb1-267"><a href="#cb1-267" aria-hidden="true" tabindex="-1"></a></span>
-<span id="cb1-268"><a href="#cb1-268" aria-hidden="true" tabindex="-1"></a><span class="fu">## Summary</span></span>
-<span id="cb1-269"><a href="#cb1-269" aria-hidden="true" tabindex="-1"></a></span>
-<span id="cb1-270"><a href="#cb1-270" aria-hidden="true" tabindex="-1"></a><span class="fu">## References {.unnumbered}</span></span>
+<span id="cb1-261"><a href="#cb1-261" aria-hidden="true" tabindex="-1"></a>Explanation and prediction are interchangeable. First, you need a model to explain something; then, you can use the model to make predictions.</span>
+<span id="cb1-262"><a href="#cb1-262" aria-hidden="true" tabindex="-1"></a></span>
+<span id="cb1-263"><a href="#cb1-263" aria-hidden="true" tabindex="-1"></a>Decision-making is slightly different. This could also be called a conclusion or, more technically, 'inference'.</span>
+<span id="cb1-264"><a href="#cb1-264" aria-hidden="true" tabindex="-1"></a></span>
+<span id="cb1-265"><a href="#cb1-265" aria-hidden="true" tabindex="-1"></a><span class="fu">## Glossary</span></span>
+<span id="cb1-266"><a href="#cb1-266" aria-hidden="true" tabindex="-1"></a></span>
+<span id="cb1-267"><a href="#cb1-267" aria-hidden="true" tabindex="-1"></a>Theory</span>
+<span id="cb1-268"><a href="#cb1-268" aria-hidden="true" tabindex="-1"></a></span>
+<span id="cb1-269"><a href="#cb1-269" aria-hidden="true" tabindex="-1"></a>:   what does it mean.</span>
+<span id="cb1-270"><a href="#cb1-270" aria-hidden="true" tabindex="-1"></a></span>
+<span id="cb1-271"><a href="#cb1-271" aria-hidden="true" tabindex="-1"></a>Model</span>
+<span id="cb1-272"><a href="#cb1-272" aria-hidden="true" tabindex="-1"></a></span>
+<span id="cb1-273"><a href="#cb1-273" aria-hidden="true" tabindex="-1"></a>:   what does it mean.</span>
+<span id="cb1-274"><a href="#cb1-274" aria-hidden="true" tabindex="-1"></a></span>
+<span id="cb1-275"><a href="#cb1-275" aria-hidden="true" tabindex="-1"></a></span>
+<span id="cb1-276"><a href="#cb1-276" aria-hidden="true" tabindex="-1"></a><span class="fu">## The meaning of "Models of Reality" in this chapter.</span></span>
+<span id="cb1-277"><a href="#cb1-277" aria-hidden="true" tabindex="-1"></a></span>
+<span id="cb1-278"><a href="#cb1-278" aria-hidden="true" tabindex="-1"></a><span class="ss">-   </span>Models of reality can exist in parallel.</span>
+<span id="cb1-279"><a href="#cb1-279" aria-hidden="true" tabindex="-1"></a><span class="ss">-   </span>Models do not make automatically good predictions.</span>
+<span id="cb1-280"><a href="#cb1-280" aria-hidden="true" tabindex="-1"></a><span class="ss">-   </span>If the assumptions are wrong, the model is wrong.</span>
+<span id="cb1-281"><a href="#cb1-281" aria-hidden="true" tabindex="-1"></a></span>
+<span id="cb1-282"><a href="#cb1-282" aria-hidden="true" tabindex="-1"></a><span class="fu">## Summary</span></span>
+<span id="cb1-283"><a href="#cb1-283" aria-hidden="true" tabindex="-1"></a></span>
+<span id="cb1-284"><a href="#cb1-284" aria-hidden="true" tabindex="-1"></a><span class="fu">## References {.unnumbered}</span></span>
 </code></pre></div><button title="Copy to Clipboard" class="code-copy-button" data-in-quarto-modal=""><i class="bi"></i></button></div>
 </div></div></div></div></div>
 </div> <!-- /content -->
